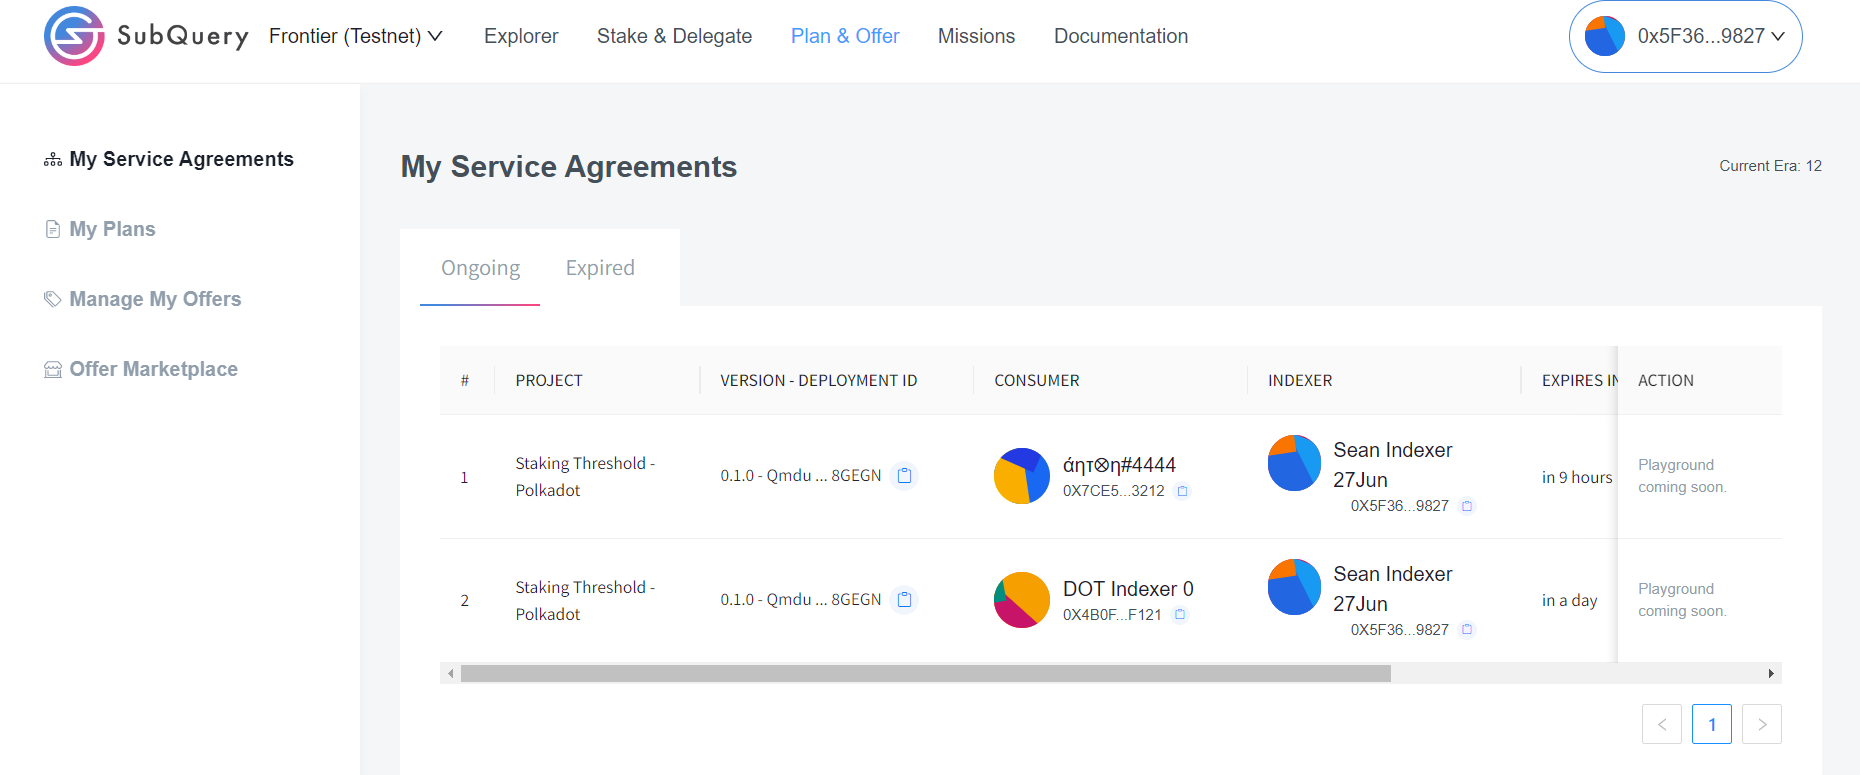
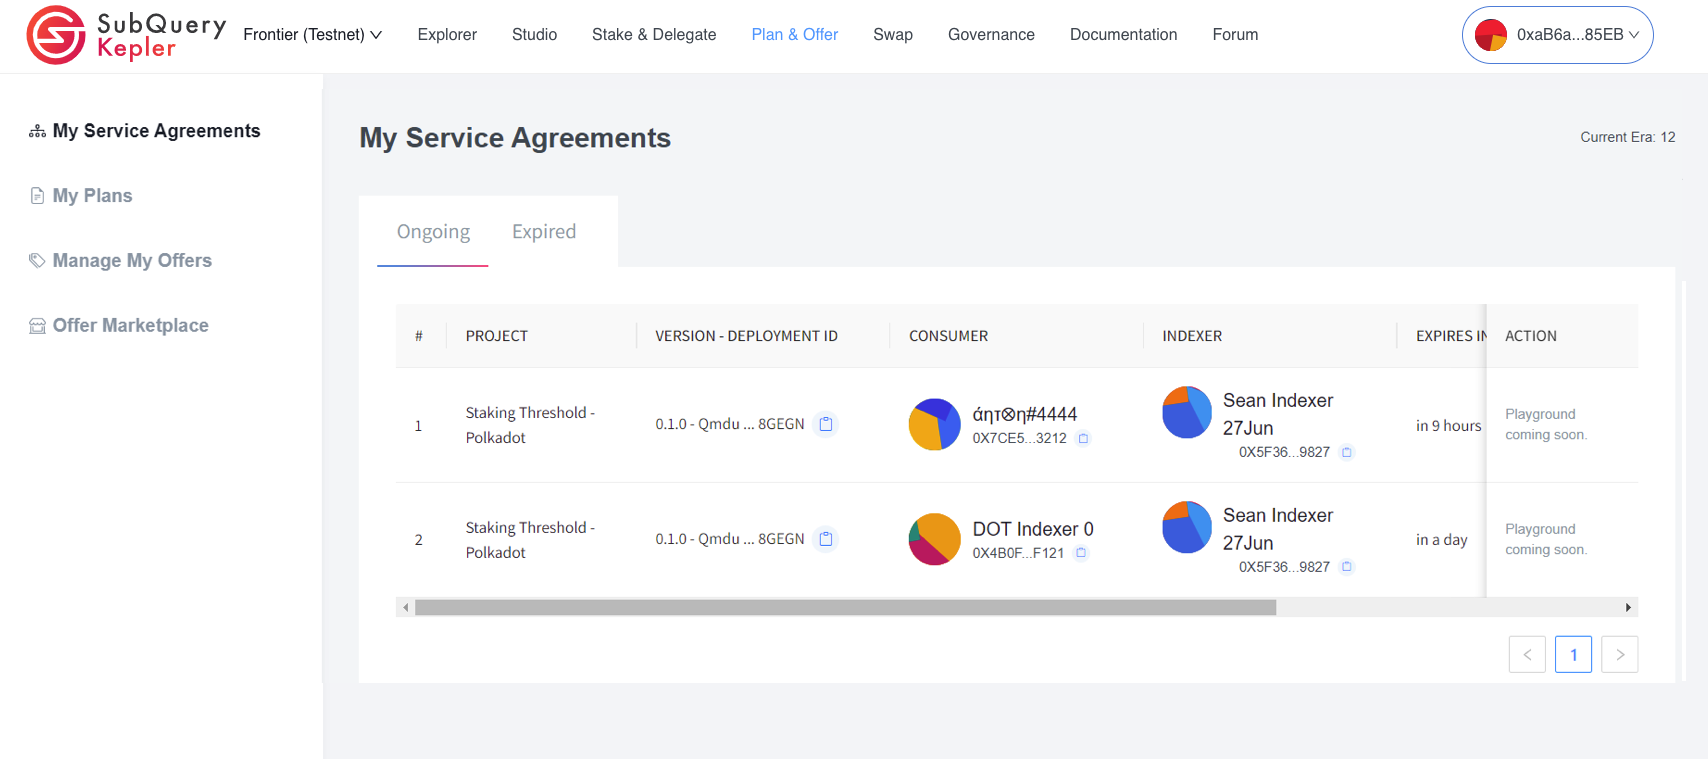
Updates Kepler's welcome page

diff --git a/docs/subquery_network/testnet/welcome.md b/docs/subquery_network/testnet/welcome.md
@@ -1,28 +1,28 @@
 # Welcome
 
-Welcome to [Frontier](https://frontier.subquery.network/), SubQuery's Testnet. 
+Welcome to [Kepler](https://kepler.thechaindata.com), SubQuery's canary network. The Kepler network is the final stage before mainnet where network participants can be part of the SubQuery network and be rewarded with kSQT tokens which have real-world value.
 
-### Why Should You Try Frontier Testnet? 
+Learn how to participate as an [Indexer](../introduction.md), a [Delegator](../introduction.md), or a [Consumer](../introduction.md), and become familiar with all the features of the network.
 
-Run your Blockchain project on our infrastructure for free and take advantage of our large SubQuery Community. <!--we can add specific number as well -->
+The Kepler dashboard is divided into several sections as can be seen below.
 
-Whether you are an [Indexer](../introduction.md), a [Delegator](../introduction.md), or a [Consumer](../introduction.md), it doesn’t matter. Get a robust testing environment before you implement your project on a functional blockchain. 
-
-Run, Test, and Debug your projects with the help of our community, and get rewarded. 
-
-
-Now, let’s learn about the different areas within the explorer dashboard.
-
-![Testnet dashboard](/assets/img/dashboard.png) <br />
+![Kepler dashboard](/assets/img/kepler_dashboard.png) <br />
 
 ---
 
 ### Explorer
 
-- This area displays a list of all the projects that are being indexed. It’s also the place where consumers can search and purchase plans. 
-- If no plans are listed, it indicated that the Indexer has not yet created a plan. Note that the Indexers can also purchase their own plans.
+The explorer displays a list of all the projects that are being indexed. It’s also the place where consumers can select a particular project and purchase the associated plans. If no plans are listed, this indicates that an Indexer has not yet created a plan.
 
-![Purchase plans](/assets/img/purchase_plans.png) <br />
+![Indexer's plans](/assets/img/indexers_plans.png)
+
+---
+
+### Studio
+
+The studio allows developers to create, install, deploy and publish SubQuery projects. 
+
+![Studio](/assets/img/studio.png)
 
 ---
 
@@ -31,31 +31,40 @@ Now, let’s learn about the different areas within the explorer dashboard.
 This area:
 - Allows Indexers and Delegators to manage their [stake](../terminology.md#staking), [delegation](../terminology.md#delegating), rewards, and view tokens that are [locked](../terminology.md#lock-period). 
 - Allows Delegators to select Indexers and delegate their [SQT](../token.md).
-- Allows Indexers to delegate to their own project. 
-
-
-`Note:` Find about more such network terminologies [here](../terminology.md). <br />
+- Allows Indexers to delegate to projects. 
 
 ![Stake & Delegate Dashboard](/assets/img/stake_delegate_dashboard.png) <br />
 
 ---
 
-### Plan & Offer
+### Plans & Offers
 
 This area:
 - Lists [service agreements](../../glossary/glossary.md#service-agreements).
 - Allows Indexers to create and manage their plans.
 - Allows Consumers to create and manage their offers.
-- Displays an offer marketplace where Indexers can accept an offer from a Consumer.
+- Displays an offer marketplace where Indexers can accept an offer from Consumers.
 
 ![Plan & Offer Dashboard](/assets/img/plan_offer_dashboard.png)<br/>
 
 ---
-### Mission
+### Swap
 
-This area shows:
-- The enlisted missions, which have been completed by network participants(Indexers, Consumers, Delegators).
-- A leaderboard, grouped by network participants.
+Swaps allows users to swap USDC to kSQT and vice versa.
 
-![Mission Dashboard](/assets/img/missions_dashboard.png)<br/>
+![Swaps](/assets/img/swaps.png)<br/>
 
+---
+### Governance
+
+Participate in SubQuery's governance process.
+
+---
+### Documentation
+
+Learn more about the SubQuery network.
+
+---
+### Forum
+
+Join the discussion in our Discourse forum.
